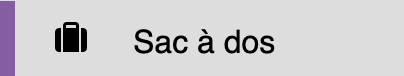
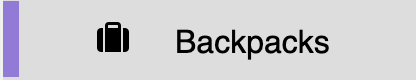
no more sac a dos

Changed region(s): [[0.1188, 0.2632, 0.802, 0.7632], [0.0, 0.0, 0.0594, 1.0]]

diff --git a/docs/elioblocs/blocs/backpacks/backpacks.md b/docs/elioblocs/blocs/backpacks/backpacks.md
@@ -4,12 +4,12 @@ title: "Backpacks"
 description: "Elioblocs - Backpacks"
 ---
 
-Les blocs de Sac à dos permettent de contrôler les accessoires d'Eliobot.
+Les blocs Backpacks permettent de contrôler les accessoires d'Eliobot.
 
 ## TORTUE DE BOUTONS
 
 :::warning
-Attention pour être utilisé, Eliobot doit être équipé du sac à dos tortue de boutons.
+Attention pour être utilisé, Eliobot doit être équipé du backpack tortue de boutons.
 :::
 
 ### Programmer avec des boutons
@@ -31,7 +31,7 @@ Pour faire programmer Eliobot au plus jeune, en utilisant des boutons pour lui d
 ## CAPTEUR DHT11
 
 :::warning
-Attention pour être utilisé, Eliobot doit être équipé du sac à dos capteur d'humidité et de la librairie Adafruit DHT.
+Attention pour être utilisé, Eliobot doit être équipé du backpack capteur d'humidité et de la librairie Adafruit DHT.
 :::
 
 ### Récupérer la valeur de température ou d'humidité
@@ -51,7 +51,7 @@ Si tu veux récupérer la température ou l'humidité mesurée par le capteur po
 ## MATRICE DE LED
 
 :::warning
-Attention pour être utilisé, Eliobot doit être équipé du sac à dos matrice de LED.
+Attention pour être utilisé, Eliobot doit être équipé du backpack matrice de LED.
 :::
 
 ### Choisir les couleurs d'une matrice de LED
@@ -122,7 +122,7 @@ Si tu veux afficher un message sur la matrice de LED. Par exemple, pour afficher
 ## CAPTEUR BME280
 
 :::warning
-Attention pour être utilisé, Eliobot doit être équipé du sac à dos capteur d'environnement et de la librairie Adafruit BME280.
+Attention pour être utilisé, Eliobot doit être équipé du backpack capteur d'environnement et de la librairie Adafruit BME280.
 :::
 
 ### Récupérer différentes valeurs mesurées par le capteur BME280
@@ -160,7 +160,7 @@ Si tu veux définir la pression au niveau de la mer pour le capteur de pression.
 ## Écran OLED
 
 :::warning
-Attention pour être utilisé, Eliobot doit être équipé du sac à dos écran OLED.
+Attention pour être utilisé, Eliobot doit être équipé du backpack écran OLED.
 :::
 
 ### Afficher un texte sur un écran OLED
@@ -196,7 +196,7 @@ Si tu veux effacer ce qui est affiché sur l'écran OLED. Par exemple, pour effa
 ## Servomoteur
 
 :::warning
-Attention pour être utilisé, Eliobot doit être équipé du sac à dos servomoteur.
+Attention pour être utilisé, Eliobot doit être équipé du backpack servomoteur.
 :::
 
 ### Définir la position du servomoteur
@@ -217,7 +217,7 @@ Par exemple, pour tourner la tête d'Eliobot.
 ## Servomoteur continu
 
 :::warning
-Attention pour être utilisé, Eliobot doit être équipé du sac à dos servomoteur continu.
+Attention pour être utilisé, Eliobot doit être équipé du backpack servomoteur continu.
 :::
 
 ### Faire tourner le servomoteur continu
@@ -237,7 +237,7 @@ Si tu veux faire tourner le servomoteur continu pour qu'il avance ou recule.
 ## Capteur Ultrason
 
 :::warning
-Attention pour être utilisé, Eliobot doit être équipé du sac à dos capteur ultrason.
+Attention pour être utilisé, Eliobot doit être équipé du backpack capteur ultrason.
 :::
 
 ### Récupérer la distance mesurée par le capteur ultrason
